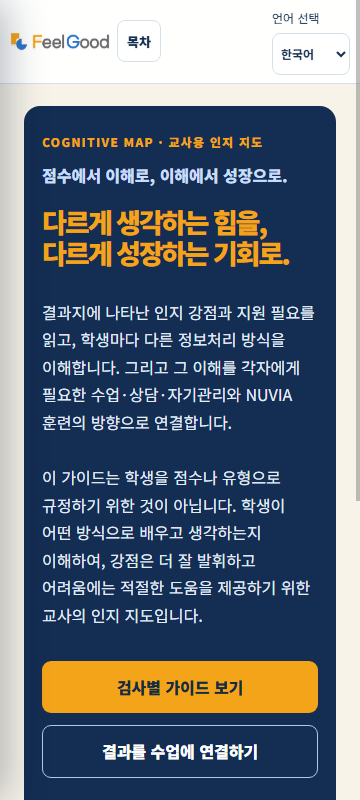
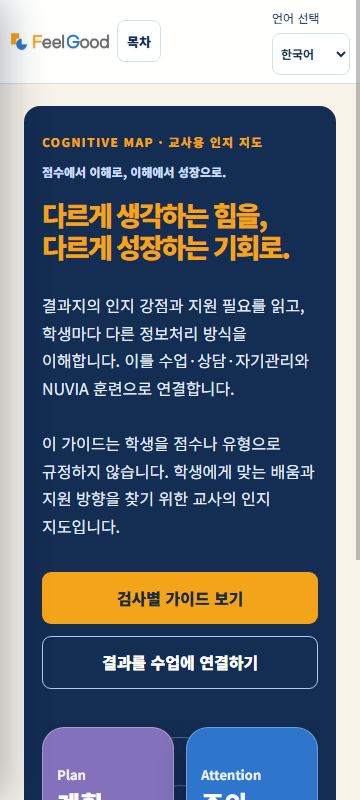
style: reverse teacher guide hero layout

diff --git a/teacher-guide/ebook.css b/teacher-guide/ebook.css
@@ -190,18 +190,23 @@ a:focus-visible, button:focus-visible, input:focus-visible, select:focus-visible
   position: relative;
   display: grid;
   min-height: auto;
-  grid-template-columns: minmax(0, 1.12fr) minmax(360px, .88fr);
+  grid-template-columns: minmax(0, 42fr) minmax(0, 58fr);
+  grid-template-areas: "art copy";
   align-items: center;
-  gap: clamp(56px, 5vw, 76px);
+  gap: clamp(48px, 4.5vw, 64px);
   overflow: hidden;
   padding: clamp(46px, 5vw, 68px);
   border-radius: 24px;
   background: var(--navy);
   color: #fff;
 }
-.opening-copy { position: relative; z-index: 2; min-width: 0; container-type: inline-size; }
+.opening-copy { position: relative; z-index: 2; min-width: 0; grid-area: copy; container-type: inline-size; }
 .chapter-opening .eyebrow { margin-bottom: 10px; }
-.chapter-opening .lead { margin: 0 0 18px; }
+.chapter-opening .lead {
+  margin: 0 0 18px;
+  font-size: clamp(12px, 1.15vw, 16px);
+  white-space: nowrap;
+}
 .chapter-opening .opening-title {
   color: var(--orange);
   margin-bottom: 30px;
@@ -212,7 +217,7 @@ a:focus-visible, button:focus-visible, input:focus-visible, select:focus-visible
 }
 .opening-title span { display: block; white-space: nowrap; }
 .opening-copy > p:not(.eyebrow, .lead) {
-  max-width: 680px;
+  max-width: 720px;
   margin: 0 0 22px;
   color: #e3edf9;
   font-size: 18px;
@@ -240,13 +245,14 @@ a:focus-visible, button:focus-visible, input:focus-visible, select:focus-visible
   position: relative;
   z-index: 1;
   display: grid;
-  width: min(100%, 470px);
-  min-height: 440px;
+  width: min(100%, 420px);
   grid-template-columns: repeat(2, minmax(0, 1fr));
   align-items: center;
   gap: 24px 22px;
+  grid-area: art;
   justify-self: center;
   isolation: isolate;
+  overflow: hidden;
   padding: 22px 8px;
 }
 .cognitive-art::after {
@@ -284,7 +290,7 @@ a:focus-visible, button:focus-visible, input:focus-visible, select:focus-visible
   min-height: 156px;
   flex-direction: column;
   justify-content: center;
-  padding: 22px 20px;
+  padding: 22px 14px;
   border: 1px solid rgb(255 255 255 / 30%);
   border-radius: 30px;
   box-shadow: 0 14px 28px rgb(6 24 43 / 28%);
@@ -294,10 +300,14 @@ a:focus-visible, button:focus-visible, input:focus-visible, select:focus-visible
   line-height: 1.2;
 }
 .pass-node span { margin-bottom: 8px; font-size: clamp(14px, 1.1vw, 16px); font-weight: 700; line-height: 1.2; opacity: .92; white-space: nowrap; }
-.pass-node.plan { justify-self: start; transform: translate(-6px, -18px); background: var(--purple); }
-.pass-node.attention { justify-self: end; transform: translate(8px, 2px); background: var(--blue); }
-.pass-node.simultaneous { justify-self: start; transform: translate(-2px, -2px); background: var(--sky); }
-.pass-node.successive { justify-self: end; transform: translate(10px, 18px); background: var(--orange); color: #24344c; }
+.pass-node.plan { justify-self: start; transform: translate(0, -18px); background: var(--purple); }
+.pass-node.attention { justify-self: end; transform: translate(0, 2px); background: var(--blue); }
+.pass-node.simultaneous { justify-self: start; transform: translate(0, -2px); background: var(--sky); }
+.pass-node.successive { justify-self: end; transform: translate(0, 18px); background: var(--orange); color: #24344c; }
+
+@media (min-width: 1101px) and (max-width: 1300px) {
+  .chapter-opening .opening-title { font-size: clamp(30px, 10cqi, 48px); }
+}
 
 /* Shared cards and chapter components */
 .info-grid, .report-grid, .pass-grid, .profile-list, .teacher-cards, .dashboard-grid, .nuvia-grid, .help-grid {
@@ -516,21 +526,38 @@ a:focus-visible, button:focus-visible, input:focus-visible, select:focus-visible
   .toc-toggle { display: inline-flex; min-height: 44px; align-items: center; border: 1px solid var(--line); border-radius: 8px; background: #fff; color: var(--navy); padding: 7px 11px; font-weight: 800; }
   .reader-language { margin-right: 14px; margin-left: auto; }
   .chapter-opening {
-    grid-template-columns: minmax(0, 1fr) minmax(300px, .8fr);
     gap: 48px;
     padding: clamp(42px, 5vw, 56px);
   }
-  .cognitive-art { min-height: 400px; gap: 18px; }
+  .cognitive-art { gap: 18px; }
   .pass-node { width: min(100%, 160px); min-height: 148px; transform: none !important; }
 }
 
+@media (min-width: 768px) and (max-width: 1023px) {
+  .chapter-opening {
+    grid-template-columns: minmax(0, 45fr) minmax(0, 55fr);
+    gap: clamp(32px, 5vw, 48px);
+    padding: clamp(34px, 4.5vw, 46px);
+  }
+  .cognitive-art { width: min(100%, 390px); padding: 18px 6px; }
+  .pass-node { min-height: 138px; padding: 18px 14px; font-size: clamp(23px, 3vw, 27px); }
+  .pass-node span { font-size: clamp(13px, 1.7vw, 15px); }
+}
+
 @media (max-width: 820px) {
-  .chapter-opening { grid-template-columns: 1fr; gap: 38px; }
-  .cognitive-art { width: min(100%, 430px); min-height: 390px; }
   .info-grid.three, .report-grid, .teacher-cards, .dashboard-grid, .nuvia-grid, .help-grid { grid-template-columns: 1fr 1fr; }
   .flow { grid-template-columns: repeat(2, minmax(0, 1fr)); }
   .flow li:last-child { grid-column: 1 / -1; }
   .assignment { grid-template-columns: 1fr 1fr; }
+}
+
+@media (max-width: 767px) {
+  .chapter-opening {
+    grid-template-columns: 1fr;
+    grid-template-areas: "copy" "art";
+    gap: 34px;
+  }
+  .cognitive-art { width: min(100%, 420px); }
 }
 
 @media (max-width: 620px) {
@@ -554,7 +581,7 @@ a:focus-visible, button:focus-visible, input:focus-visible, select:focus-visible
   .chapter-opening { gap: 34px; }
   .actions { display: grid; grid-template-columns: 1fr; }
   .actions .button { width: 100%; }
-  .cognitive-art { width: min(100%, 330px); min-height: 330px; gap: 12px; padding: 4px 0; }
+  .cognitive-art { width: min(100%, 330px); gap: 12px; padding: 4px 0; }
   .cognitive-art::after { width: 60px; font-size: 10px; }
   .pass-node { width: min(100%, 142px); min-height: 132px; border-radius: 22px; padding: 16px 14px; font-size: 25px; }
   .pass-node span { margin-bottom: 6px; font-size: 13px; }

diff --git a/teacher-guide/index.html b/teacher-guide/index.html
@@ -53,8 +53,8 @@
           <p class="eyebrow">COGNITIVE MAP · 교사용 인지 지도</p>
           <p class="lead">점수에서 이해로, 이해에서 성장으로.</p>
           <h2 class="opening-title"><span>다르게 생각하는 힘을,</span><span>다르게 성장하는 기회로.</span></h2>
-          <p>결과지에 나타난 인지 강점과 지원 필요를 읽고, 학생마다 다른 정보처리 방식을 이해합니다. 그리고 그 이해를 각자에게 필요한 수업·상담·자기관리와 NUVIA 훈련의 방향으로 연결합니다.</p>
-          <p>이 가이드는 학생을 점수나 유형으로 규정하기 위한 것이 아닙니다. 학생이 어떤 방식으로 배우고 생각하는지 이해하여, 강점은 더 잘 발휘하고 어려움에는 적절한 도움을 제공하기 위한 교사의 인지 지도입니다.</p>
+          <p>결과지의 인지 강점과 지원 필요를 읽고, 학생마다 다른 정보처리 방식을 이해합니다. 이를 수업·상담·자기관리와 NUVIA 훈련으로 연결합니다.</p>
+          <p>이 가이드는 학생을 점수나 유형으로 규정하지 않습니다. 학생에게 맞는 배움과 지원 방향을 찾기 위한 교사의 인지 지도입니다.</p>
           <div class="actions"><button class="button gold" type="button" data-go="pathways">검사별 가이드 보기</button><button class="button line" type="button" data-go="teacher">결과를 수업에 연결하기</button></div>
         </div>
         <div class="cognitive-art" aria-label="PASS 네 영역 인지 지도"><i class="orbit one"></i><i class="orbit two"></i><i class="link l1"></i><i class="link l2"></i><div class="pass-node plan"><span>Plan</span>계획</div><div class="pass-node attention"><span>Attention</span>주의</div><div class="pass-node simultaneous"><span>Simultaneous</span>동시처리</div><div class="pass-node successive"><span>Successive</span>순차처리</div></div>
